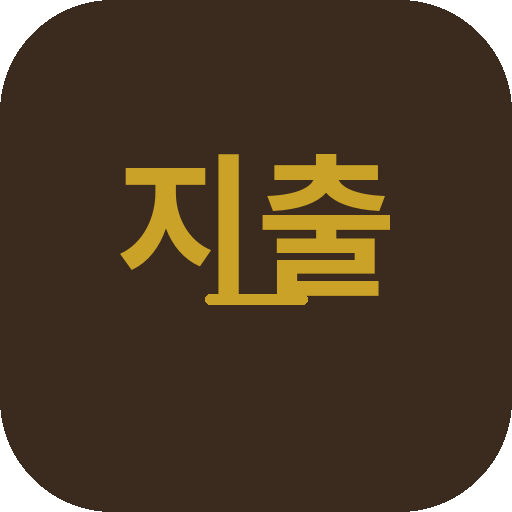
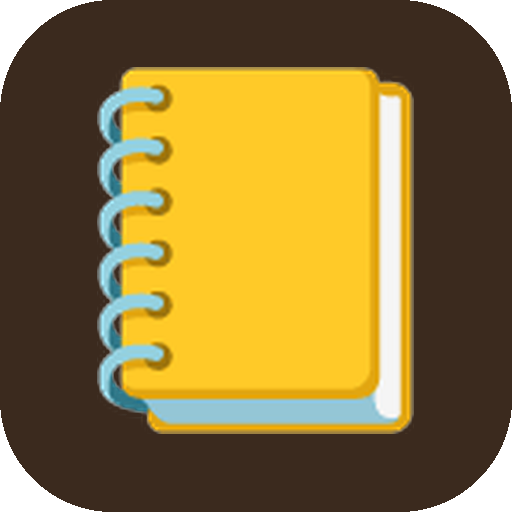
Add files via upload

diff --git a/index.html b/index.html
@@ -3,14 +3,14 @@
 <head>
 <meta charset="UTF-8">
 <meta name="viewport" content="width=device-width, initial-scale=1.0">
-<title>지출 관리</title>
+<title>가계부</title>
 <link rel="manifest" href="manifest.json">
 <meta name="theme-color" content="#3B2A1E">
 <link rel="icon" href="icon-192.png">
 <link rel="apple-touch-icon" href="icon-192.png">
 <meta name="apple-mobile-web-app-capable" content="yes">
 <meta name="apple-mobile-web-app-status-bar-style" content="black-translucent">
-<meta name="apple-mobile-web-app-title" content="지출 관리">
+<meta name="apple-mobile-web-app-title" content="가계부">
 <style>
 @import url('https://cdn.jsdelivr.net/gh/orioncactus/pretendard@v1.3.9/dist/web/static/pretendard.css');
 @import url('https://fonts.googleapis.com/css2?family=Noto+Serif+KR:wght@500;700&display=swap');
@@ -110,6 +110,8 @@ body{
 .trend-bar-col{flex:1;display:flex;flex-direction:column;align-items:center;justify-content:flex-end;height:100%;}
 .trend-bar{width:100%;max-width:26px;border-radius:4px 4px 0 0;background:#D8CFBD;}
 .trend-bar.current{background:var(--brown-deep);}
+.trend-bar-income{background:#B9E0BA;}
+.trend-bar-income.current{background:var(--green);}
 .trend-label{font-size:10px;color:var(--ink-soft);margin-top:6px;}
 .trend-amt{font-size:9.5px;color:var(--ink-soft);margin-top:2px;font-variant-numeric:tabular-nums;}
 
@@ -169,7 +171,7 @@ body{
 
   <div class="topbar">
     <div class="topbar-row1">
-      <div class="app-title">지출 관리</div>
+      <div class="app-title">가계부</div>
       <div class="month-switch">
         <button onclick="changeMonth(-1)">‹</button>
         <span id="monthLabel"></span>
@@ -197,6 +199,10 @@ body{
     <div class="stats-section" style="padding-top:0;">
       <div class="stats-title">최근 6개월 지출 추이</div>
       <div class="trend-wrap" id="trendWrap"></div>
+    </div>
+    <div class="stats-section" style="padding-top:0;">
+      <div class="stats-title">최근 6개월 수입 추이</div>
+      <div class="trend-wrap" id="trendWrapIncome"></div>
     </div>
   </div>
 
@@ -341,7 +347,7 @@ function exportData(){
   const blob = new Blob([JSON.stringify({expenses:state.expenses, budgets:state.budgets, categories:CATEGORIES}, null, 2)], {type:'application/json'});
   const a = document.createElement('a');
   a.href = URL.createObjectURL(blob);
-  a.download = `지출관리_백업_${todayStr()}.json`;
+  a.download = `가계부_백업_${todayStr()}.json`;
   a.click();
 }
 function importData(event){
@@ -531,6 +537,8 @@ function renderStats(list, total){
   // trend: last 6 months
   const trendWrap = document.getElementById('trendWrap');
   trendWrap.innerHTML = '';
+  const trendWrapIncome = document.getElementById('trendWrapIncome');
+  trendWrapIncome.innerHTML = '';
   const months = [];
   const [cy,cm] = state.currentMonth.split('-').map(Number);
   for(let i=5;i>=0;i--){
@@ -538,7 +546,9 @@ function renderStats(list, total){
     months.push(d.getFullYear()+'-'+String(d.getMonth()+1).padStart(2,'0'));
   }
   const totals = months.map(mo => monthExpenses(mo).filter(e=>(e.type||'expense')==='expense').reduce((s,e)=>s+e.amount,0));
+  const incomeTotals = months.map(mo => monthExpenses(mo).filter(e=>e.type==='income').reduce((s,e)=>s+e.amount,0));
   const max = Math.max(...totals, 1);
+  const maxIncome = Math.max(...incomeTotals, 1);
   months.forEach((mo,i)=>{
     const [,mm] = mo.split('-');
     const h = Math.max(4, (totals[i]/max)*100);
@@ -548,6 +558,14 @@ function renderStats(list, total){
       <div class="trend-bar${mo===state.currentMonth?' current':''}" style="height:${h}%"></div>
       <div class="trend-label">${Number(mm)}월</div>`;
     trendWrap.appendChild(col);
+
+    const hIncome = Math.max(4, (incomeTotals[i]/maxIncome)*100);
+    const colIncome = document.createElement('div');
+    colIncome.className = 'trend-bar-col';
+    colIncome.innerHTML = `<div class="trend-amt">${incomeTotals[i]>0 ? Math.round(incomeTotals[i]/1000)+'k' : ''}</div>
+      <div class="trend-bar trend-bar-income${mo===state.currentMonth?' current':''}" style="height:${hIncome}%"></div>
+      <div class="trend-label">${Number(mm)}월</div>`;
+    trendWrapIncome.appendChild(colIncome);
   });
 }
 

diff --git a/sw.js b/sw.js
@@ -1,4 +1,4 @@
-const CACHE_NAME = 'jichul-gwanli-v2';
+const CACHE_NAME = 'gagyebu-v3';
 const ASSETS = [
   './',
   './index.html',
